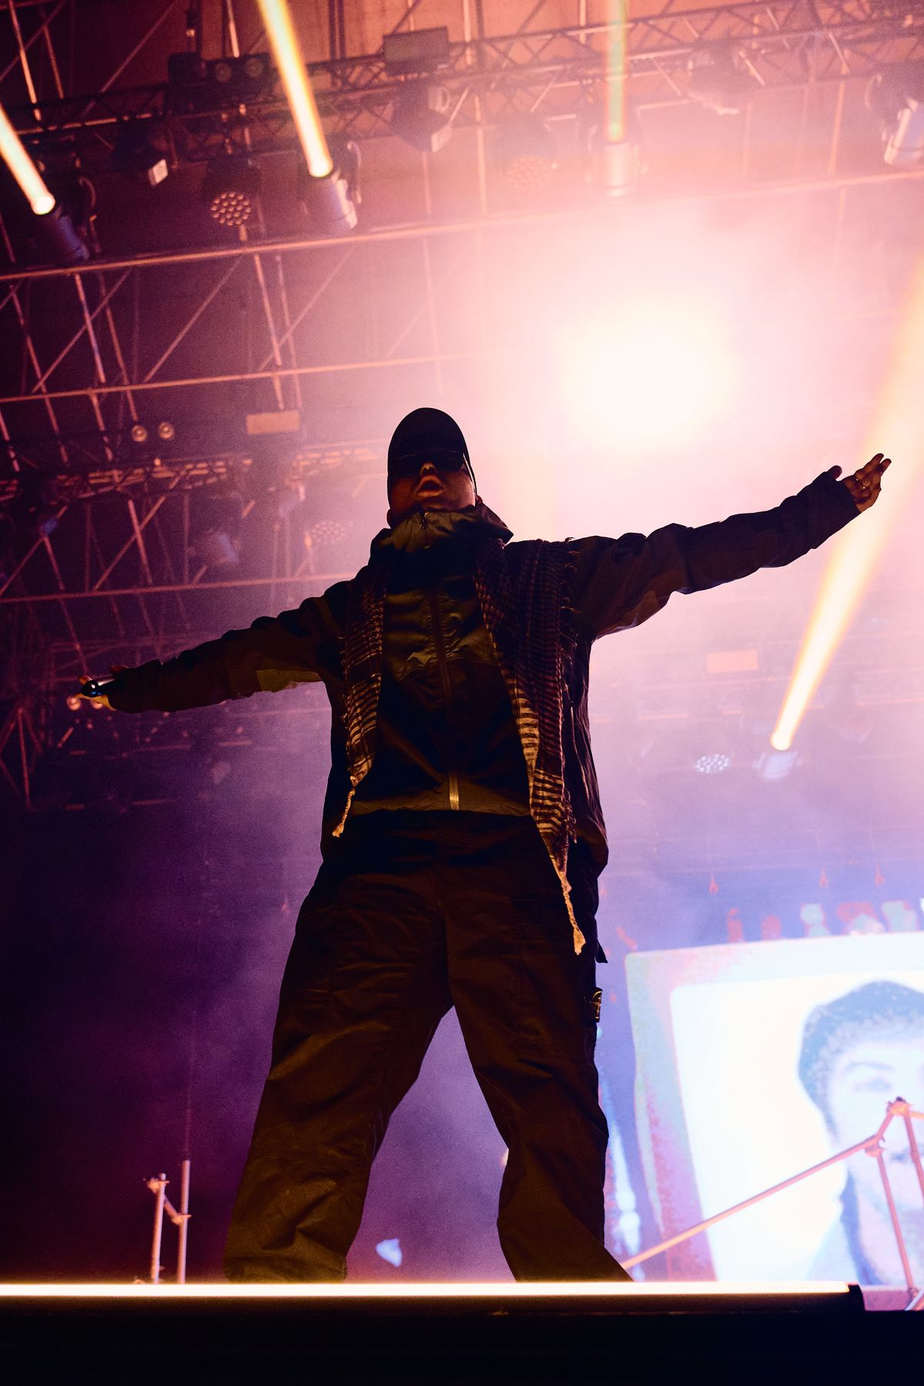
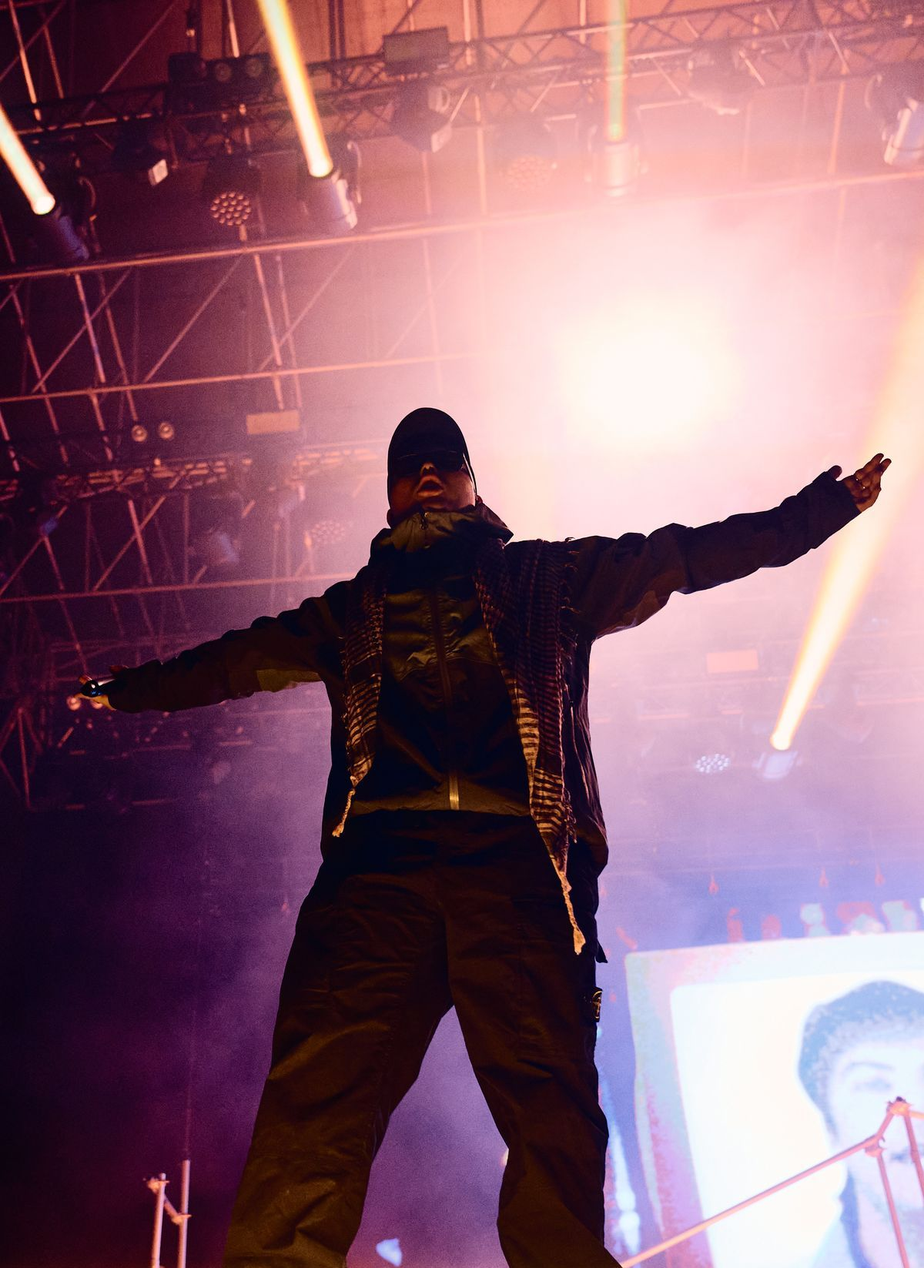
Kneecap: taglio bordo inferiore

diff --git a/index.html b/index.html
@@ -218,7 +218,7 @@ footer a:hover{color:var(--paper)}
 
 <script>
 const CONTACT={email:"matte.mog@gmail.com",phone:"+39 340 494 3680",instagram:"matteobarbieriph"};
-const S=[{"id": "elephant-brain", "t": "Elephant Brain", "p": "Locomotiv, Bologna · Harmonya Fest, Alchemica", "d": "2025 — 2026", "kind": "live", "im": [["elephant-brain-00", 1800, 1201], ["elephant-brain-01", 1800, 1201], ["elephant-brain-02", 1800, 1440], ["elephant-brain-03", 1800, 1440], ["elephant-brain-04", 1440, 960], ["elephant-brain-05", 1800, 1440], ["elephant-brain-06", 1800, 1200], ["elephant-brain-07", 1200, 1800], ["elephant-brain-08", 1800, 1200], ["elephant-brain-09", 1800, 1200]]}, {"id": "johnny-marr", "t": "Johnny Marr", "p": "Estragon, Bologna", "d": "08.11.2025", "kind": "live", "im": [["johnny-marr-00", 1080, 1350], ["johnny-marr-01", 1080, 1350], ["johnny-marr-02", 1080, 1350], ["johnny-marr-03", 1080, 1350], ["johnny-marr-04", 1080, 1350], ["johnny-marr-05", 1080, 864], ["johnny-marr-06", 1080, 1350]]}, {"id": "interpol", "t": "Interpol", "p": "Sequoie Music Park, Bologna", "d": "16.07.2026", "kind": "live", "im": [["interpol-00", 1800, 1200], ["interpol-01", 1200, 1800], ["interpol-02", 1800, 1200], ["interpol-03", 1800, 1200], ["interpol-04", 1800, 1200], ["interpol-05", 1800, 1200], ["interpol-06", 1800, 1200]]}, {"id": "a-perfect-circle", "t": "A Perfect Circle", "p": "Ferrara Summer Festival", "d": "13.06.2026", "kind": "live", "im": [["a-perfect-circle-00", 1800, 1200], ["a-perfect-circle-01", 1800, 1200], ["a-perfect-circle-02", 1200, 1800], ["a-perfect-circle-03", 1200, 1800], ["a-perfect-circle-04", 1800, 1200], ["a-perfect-circle-05", 1800, 1200], ["a-perfect-circle-06", 1800, 1200]]}, {"id": "pixies", "t": "Pixies", "p": "Parco della Musica, Milano", "d": "14.07.2026", "kind": "live", "im": [["pixies-00", 1800, 1200], ["pixies-01", 1200, 1800], ["pixies-02", 1800, 1200], ["pixies-03", 1800, 1200], ["pixies-04", 1200, 1800], ["pixies-05", 1800, 1200]]}, {"id": "the-zen-circus", "t": "The Zen Circus", "p": "Estragon, Bologna", "d": "12.12.2025", "kind": "live", "im": [["the-zen-circus-00", 1800, 1200], ["the-zen-circus-01", 1800, 1201], ["the-zen-circus-02", 1440, 1800], ["the-zen-circus-03", 1800, 1201], ["the-zen-circus-04", 1440, 1800], ["the-zen-circus-05", 1800, 1200], ["the-zen-circus-06", 1800, 1200]]}, {"id": "caparezza", "t": "Caparezza", "p": "Sequoie Music Park, Bologna", "d": "08.07.2026", "kind": "live", "im": [["caparezza-00", 1800, 1200], ["caparezza-01", 1200, 1800], ["caparezza-02", 1800, 1200], ["caparezza-03", 1800, 1200], ["caparezza-04", 1800, 1200], ["caparezza-05", 1800, 1200], ["caparezza-06", 1800, 1200]]}, {"id": "ministri", "t": "Ministri", "p": "Ferrara Sotto le Stelle", "d": "22.07.2026", "kind": "live", "im": [["ministri-00", 1800, 1200], ["ministri-01", 1800, 1200], ["ministri-02", 1200, 1800], ["ministri-03", 1800, 1200], ["ministri-04", 1800, 1200], ["ministri-05", 1800, 1200], ["ministri-06", 1800, 1200]]}, {"id": "bambole-di-pezza", "t": "Bambole di Pezza", "p": "Estragon, Bologna", "d": "06.05.2026", "kind": "live", "im": [["bambole-di-pezza-00", 1200, 1800], ["bambole-di-pezza-01", 1200, 1800], ["bambole-di-pezza-02", 1200, 1800], ["bambole-di-pezza-03", 1800, 1200], ["bambole-di-pezza-04", 1800, 1200], ["bambole-di-pezza-05", 1800, 1200]]}, {"id": "negrita", "t": "Negrita", "p": "Teatro EuropAuditorium, Bologna", "d": "04.12.2025", "kind": "live", "im": [["negrita-00", 1440, 1800], ["negrita-01", 1200, 1800], ["negrita-02", 1200, 1800], ["negrita-03", 1200, 1800], ["negrita-04", 1800, 1200], ["negrita-05", 1200, 1800]]}, {"id": "dropkick-murphys", "t": "Dropkick Murphys", "p": "Beky Bay, Bellaria-Igea Marina", "d": "12.08.2026", "kind": "live", "im": [["dropkick-murphys-00", 1800, 1200], ["dropkick-murphys-01", 1800, 1200], ["dropkick-murphys-02", 1200, 1800], ["dropkick-murphys-03", 1800, 1200], ["dropkick-murphys-04", 1800, 1200], ["dropkick-murphys-05", 1800, 1200], ["dropkick-murphys-06", 1200, 1800]]}, {"id": "joan-thiele", "t": "Joan Thiele", "p": "Frogstock, Riolo Terme", "d": "20.08.2026", "kind": "live", "im": [["joan-thiele-00", 1800, 1200], ["joan-thiele-01", 1200, 1800], ["joan-thiele-02", 1800, 1200], ["joan-thiele-03", 1200, 1800], ["joan-thiele-04", 1200, 1800], ["joan-thiele-05", 1800, 1200]]}, {"id": "marlene-kuntz", "t": "Marlene Kuntz", "p": "Estragon, Bologna · Ferrara Sotto le Stelle", "d": "marzo — luglio 2026", "kind": "live", "im": [["marlene-kuntz-00", 1800, 1200], ["marlene-kuntz-01", 1800, 1200], ["marlene-kuntz-02", 1200, 1800], ["marlene-kuntz-03", 1800, 1200], ["marlene-kuntz-04", 1200, 1800], ["marlene-kuntz-05", 1200, 1800], ["marlene-kuntz-06", 1200, 1800]]}, {"id": "motta", "t": "Motta", "p": "DumBO, Bologna", "d": "21.05.2026", "kind": "live", "im": [["motta-00", 1200, 1800], ["motta-01", 1200, 1800], ["motta-02", 1800, 1200], ["motta-03", 1800, 1200], ["motta-04", 1200, 1800], ["motta-05", 1200, 1800], ["motta-06", 1800, 1200]]}, {"id": "kneecap", "t": "Kneecap", "p": "Sequoie Music Park, Bologna", "d": "16.06.2026", "kind": "live", "im": [["kneecap-00", 1200, 1800], ["kneecap-01", 1800, 1200], ["kneecap-02", 1800, 1200], ["kneecap-03", 1800, 1200], ["kneecap-04", 1800, 1200]]}, {"id": "tom-smith", "t": "Tom Smith", "p": "Teatro Comunale, Ferrara", "d": "16.03.2026", "kind": "live", "im": [["tom-smith-00", 1800, 1200], ["tom-smith-01", 1800, 1200], ["tom-smith-02", 1800, 1200], ["tom-smith-03", 1800, 1200], ["tom-smith-04", 1800, 1200], ["tom-smith-05", 1800, 1200]]}, {"id": "mclusky", "t": "mclusky", "p": "Covo Club, Bologna", "d": "11.10.2025", "kind": "live", "im": [["mclusky-00", 1108, 1660], ["mclusky-01", 1107, 1660], ["mclusky-02", 1107, 1660], ["mclusky-03", 1660, 1107], ["mclusky-04", 1660, 1108], ["mclusky-05", 1660, 1107]]}, {"id": "subsonica", "t": "Subsonica", "p": "Caserme Rosse, Bologna · Festa Reggio", "d": "giugno — settembre 2026", "kind": "live", "im": [["subsonica-00", 1200, 1800], ["subsonica-01", 1800, 1200], ["subsonica-02", 1200, 1800], ["subsonica-03", 1200, 1800], ["subsonica-04", 1800, 1200], ["subsonica-05", 1800, 1200], ["subsonica-06", 1800, 1200]]}, {"id": "finley", "t": "Finley", "p": "Estragon, Bologna", "d": "15.03.2026", "kind": "live", "im": [["finley-00", 1200, 1800], ["finley-01", 1800, 1200], ["finley-02", 1800, 1200], ["finley-03", 1800, 1200], ["finley-04", 1800, 1200], ["finley-05", 1800, 1200], ["finley-06", 1200, 1800]]}, {"id": "giorgio-poi", "t": "Giorgio Poi", "p": "Estragon, Bologna", "d": "12.03.2026", "kind": "live", "im": [["giorgio-poi-00", 1800, 1440], ["giorgio-poi-01", 1800, 1440], ["giorgio-poi-02", 1800, 1440], ["giorgio-poi-03", 1800, 1440], ["giorgio-poi-04", 1800, 1200], ["giorgio-poi-05", 1800, 1440]]}, {"id": "levante", "t": "Levante", "p": "", "d": "14.05.2026", "kind": "live", "im": [["levante-00", 1800, 1200], ["levante-01", 1800, 1200], ["levante-02", 1800, 1200], ["levante-03", 1200, 1800], ["levante-04", 1200, 1800], ["levante-05", 1800, 1200], ["levante-06", 1800, 1200]]}, {"id": "jehnny-beth", "t": "Jehnny Beth", "p": "Ferrara Summer Festival", "d": "13.06.2026", "kind": "live", "im": [["jehnny-beth-00", 1800, 1200], ["jehnny-beth-01", 1800, 1200], ["jehnny-beth-02", 1200, 1800], ["jehnny-beth-03", 1800, 1200], ["jehnny-beth-04", 1800, 1200], ["jehnny-beth-05", 1800, 1200]]}, {"id": "of-monsters-and-men", "t": "Of Monsters and Men", "p": "Sequoie Music Park, Bologna", "d": "25.06.2026", "kind": "live", "im": [["of-monsters-and-men-00", 1800, 1200], ["of-monsters-and-men-01", 1200, 1800], ["of-monsters-and-men-02", 1200, 1800], ["of-monsters-and-men-03", 1800, 1200], ["of-monsters-and-men-04", 1200, 1800]]}, {"id": "vulfpeck", "t": "Vulfpeck · The Fearless Flyers", "p": "Parco della Musica, Milano", "d": "13.07.2026", "kind": "live", "im": [["vulfpeck-00", 1200, 1800], ["vulfpeck-01", 1200, 1800], ["vulfpeck-02", 1800, 1200], ["vulfpeck-03", 1800, 1200], ["vulfpeck-04", 1800, 1200], ["vulfpeck-05", 1800, 1200]]}, {"id": "the-notwist", "t": "The Notwist", "p": "Ferrara Sotto le Stelle", "d": "23.07.2026", "kind": "live", "im": [["the-notwist-00", 1800, 1200], ["the-notwist-01", 1800, 1200], ["the-notwist-02", 1800, 1200], ["the-notwist-03", 1800, 1200], ["the-notwist-04", 1800, 1200], ["the-notwist-05", 1800, 1200]]}, {"id": "pride-of-haka", "t": "Pride of Haka", "p": "Set del videoclip", "d": "02.2026", "kind": "ritratti", "im": [["pride-of-haka-00", 1440, 1800], ["pride-of-haka-01", 1800, 1200], ["pride-of-haka-02", 1440, 1800], ["pride-of-haka-03", 1800, 1200], ["pride-of-haka-04", 1800, 1200], ["pride-of-haka-05", 1800, 1200], ["pride-of-haka-06", 1200, 1800], ["pride-of-haka-07", 1800, 1200]]}, {"id": "olivia-santimone", "t": "Olivia Santimone", "p": "Sessione promo in studio", "d": "2026", "kind": "ritratti", "im": [["olivia-santimone-00", 1800, 1440], ["olivia-santimone-01", 1800, 1440], ["olivia-santimone-02", 1800, 1201], ["olivia-santimone-03", 1800, 1440], ["olivia-santimone-04", 1800, 1440], ["olivia-santimone-05", 1800, 1175], ["olivia-santimone-06", 1800, 1201]]}, {"id": "incisions", "t": "Incisions", "p": "Foto promo", "d": "2026", "kind": "ritratti", "im": [["incisions-00", 1800, 1200], ["incisions-01", 1800, 1200], ["incisions-02", 1200, 1800], ["incisions-03", 1800, 1200], ["incisions-04", 1200, 1800]]}, {"id": "kylie-davide-dalila", "t": "Kylie, Davide e Dalila", "p": "Ritratto di famiglia", "d": "10.2025", "kind": "privati", "im": [["kylie-davide-dalila-00", 1800, 1201], ["kylie-davide-dalila-01", 1800, 1201], ["kylie-davide-dalila-02", 1800, 1201], ["kylie-davide-dalila-03", 1800, 1201], ["kylie-davide-dalila-04", 1800, 1201], ["kylie-davide-dalila-05", 1800, 1201], ["kylie-davide-dalila-06", 1800, 1201]]}, {"id": "studio-olistico-kairos", "t": "Studio Olistico Kairos", "p": "Servizio brand · Rioveggio (BO)", "d": "09.2025", "kind": "brand", "im": [["studio-olistico-kairos-00", 1800, 1201], ["studio-olistico-kairos-01", 1800, 1201], ["studio-olistico-kairos-02", 1800, 1201], ["studio-olistico-kairos-03", 1800, 1440], ["studio-olistico-kairos-04", 1800, 1440], ["studio-olistico-kairos-05", 1800, 1440], ["studio-olistico-kairos-06", 1800, 1440], ["studio-olistico-kairos-07", 1800, 1201], ["studio-olistico-kairos-08", 1800, 1201]]}, {"id": "my-style-by-vero", "t": "My Style by Vero", "p": "Artigianato dipinto a mano · mercatino", "d": "06.2025", "kind": "brand", "im": [["my-style-by-vero-00", 1800, 1201], ["my-style-by-vero-01", 1800, 1201], ["my-style-by-vero-02", 1800, 1201], ["my-style-by-vero-03", 1800, 1201]]}, {"id": "primavera-fresh-gin", "t": "Primavera Fresh Gin", "p": "Still life di prodotto", "d": "11.2025", "kind": "brand", "im": [["primavera-fresh-gin-00", 1152, 1440], ["primavera-fresh-gin-01", 1440, 960], ["primavera-fresh-gin-02", 1440, 960], ["primavera-fresh-gin-03", 960, 1440]]}, {"id": "accademia-italiana-bari", "t": "Accademia Italiana · Roadshow", "p": "Confindustria, Bari · Gruppo Finlogic", "d": "01.10.2026", "kind": "eventi", "im": [["accademia-italiana-bari-00", 1800, 1200], ["accademia-italiana-bari-01", 1800, 1200], ["accademia-italiana-bari-02", 1800, 1200], ["accademia-italiana-bari-03", 1800, 1200], ["accademia-italiana-bari-04", 1800, 1200]]}, {"id": "battesimo", "t": "Battesimo di Leonardo", "p": "Reportage di famiglia", "d": "2026", "kind": "privati", "im": [["battesimo-00", 1800, 1200], ["battesimo-01", 1200, 1800], ["battesimo-02", 1200, 1800], ["battesimo-03", 1800, 1200], ["battesimo-04", 1800, 1200], ["battesimo-05", 1800, 1200]]}, {"id": "sherwood-skate-park", "t": "Sherwood Skate Park", "p": "Inaugurazione", "d": "07.2026", "kind": "eventi", "im": [["sherwood-skate-park-00", 1200, 1800], ["sherwood-skate-park-01", 1800, 1200], ["sherwood-skate-park-02", 1200, 1800], ["sherwood-skate-park-03", 1800, 1200], ["sherwood-skate-park-04", 1800, 1200], ["sherwood-skate-park-05", 1200, 1800], ["sherwood-skate-park-06", 1800, 1200]]}, {"id": "street-buskers", "t": "Ferrara Buskers Festival", "p": "Street · Ferrara", "d": "2026", "kind": "reportage", "im": [["street-buskers-00", 1200, 1800], ["street-buskers-01", 1200, 1800], ["street-buskers-02", 1200, 1800], ["street-buskers-03", 1800, 1200], ["street-buskers-04", 1200, 1800], ["street-buskers-05", 1800, 1200], ["street-buskers-06", 1800, 1200], ["street-buskers-07", 1800, 1200]]}, {"id": "reportage", "t": "Reportage", "p": "Palio di Ferrara · Workshop Leila Bologna", "d": "2025", "kind": "reportage", "im": [["corteo-storico-00", 1200, 1800], ["corteo-storico-01", 1200, 1800], ["corteo-storico-02", 1200, 1800], ["corteo-storico-03", 1200, 1800], ["corteo-storico-04", 1200, 1800], ["corteo-storico-05", 1200, 1800], ["corteo-storico-06", 1800, 1200], ["sharing-before-christmas-00", 1800, 1440]]}, {"id": "viaggi", "t": "Viaggi", "p": "Stoccolma · Finlandia", "d": "2025 — 2026", "kind": "viaggi", "im": [["stoccolma-00", 1800, 1200], ["stoccolma-01", 1800, 1200], ["stoccolma-02", 1800, 1200], ["stoccolma-03", 1800, 1200], ["stoccolma-04", 1200, 1800], ["stoccolma-05", 1800, 1200], ["stoccolma-06", 1800, 1200], ["finlandia-00", 1800, 1201], ["finlandia-01", 1800, 1440], ["finlandia-02", 1800, 1201], ["finlandia-03", 1800, 1440], ["finlandia-04", 1800, 1201], ["finlandia-05", 1800, 1201], ["finlandia-06", 1800, 1201]]}];
+const S=[{"id": "elephant-brain", "t": "Elephant Brain", "p": "Locomotiv, Bologna · Harmonya Fest, Alchemica", "d": "2025 — 2026", "kind": "live", "im": [["elephant-brain-00", 1800, 1201], ["elephant-brain-01", 1800, 1201], ["elephant-brain-02", 1800, 1440], ["elephant-brain-03", 1800, 1440], ["elephant-brain-04", 1440, 960], ["elephant-brain-05", 1800, 1440], ["elephant-brain-06", 1800, 1200], ["elephant-brain-07", 1200, 1800], ["elephant-brain-08", 1800, 1200], ["elephant-brain-09", 1800, 1200]]}, {"id": "johnny-marr", "t": "Johnny Marr", "p": "Estragon, Bologna", "d": "08.11.2025", "kind": "live", "im": [["johnny-marr-00", 1080, 1350], ["johnny-marr-01", 1080, 1350], ["johnny-marr-02", 1080, 1350], ["johnny-marr-03", 1080, 1350], ["johnny-marr-04", 1080, 1350], ["johnny-marr-05", 1080, 864], ["johnny-marr-06", 1080, 1350]]}, {"id": "interpol", "t": "Interpol", "p": "Sequoie Music Park, Bologna", "d": "16.07.2026", "kind": "live", "im": [["interpol-00", 1800, 1200], ["interpol-01", 1200, 1800], ["interpol-02", 1800, 1200], ["interpol-03", 1800, 1200], ["interpol-04", 1800, 1200], ["interpol-05", 1800, 1200], ["interpol-06", 1800, 1200]]}, {"id": "a-perfect-circle", "t": "A Perfect Circle", "p": "Ferrara Summer Festival", "d": "13.06.2026", "kind": "live", "im": [["a-perfect-circle-00", 1800, 1200], ["a-perfect-circle-01", 1800, 1200], ["a-perfect-circle-02", 1200, 1800], ["a-perfect-circle-03", 1200, 1800], ["a-perfect-circle-04", 1800, 1200], ["a-perfect-circle-05", 1800, 1200], ["a-perfect-circle-06", 1800, 1200]]}, {"id": "pixies", "t": "Pixies", "p": "Parco della Musica, Milano", "d": "14.07.2026", "kind": "live", "im": [["pixies-00", 1800, 1200], ["pixies-01", 1200, 1800], ["pixies-02", 1800, 1200], ["pixies-03", 1800, 1200], ["pixies-04", 1200, 1800], ["pixies-05", 1800, 1200]]}, {"id": "the-zen-circus", "t": "The Zen Circus", "p": "Estragon, Bologna", "d": "12.12.2025", "kind": "live", "im": [["the-zen-circus-00", 1800, 1200], ["the-zen-circus-01", 1800, 1201], ["the-zen-circus-02", 1440, 1800], ["the-zen-circus-03", 1800, 1201], ["the-zen-circus-04", 1440, 1800], ["the-zen-circus-05", 1800, 1200], ["the-zen-circus-06", 1800, 1200]]}, {"id": "caparezza", "t": "Caparezza", "p": "Sequoie Music Park, Bologna", "d": "08.07.2026", "kind": "live", "im": [["caparezza-00", 1800, 1200], ["caparezza-01", 1200, 1800], ["caparezza-02", 1800, 1200], ["caparezza-03", 1800, 1200], ["caparezza-04", 1800, 1200], ["caparezza-05", 1800, 1200], ["caparezza-06", 1800, 1200]]}, {"id": "ministri", "t": "Ministri", "p": "Ferrara Sotto le Stelle", "d": "22.07.2026", "kind": "live", "im": [["ministri-00", 1800, 1200], ["ministri-01", 1800, 1200], ["ministri-02", 1200, 1800], ["ministri-03", 1800, 1200], ["ministri-04", 1800, 1200], ["ministri-05", 1800, 1200], ["ministri-06", 1800, 1200]]}, {"id": "bambole-di-pezza", "t": "Bambole di Pezza", "p": "Estragon, Bologna", "d": "06.05.2026", "kind": "live", "im": [["bambole-di-pezza-00", 1200, 1800], ["bambole-di-pezza-01", 1200, 1800], ["bambole-di-pezza-02", 1200, 1800], ["bambole-di-pezza-03", 1800, 1200], ["bambole-di-pezza-04", 1800, 1200], ["bambole-di-pezza-05", 1800, 1200]]}, {"id": "negrita", "t": "Negrita", "p": "Teatro EuropAuditorium, Bologna", "d": "04.12.2025", "kind": "live", "im": [["negrita-00", 1440, 1800], ["negrita-01", 1200, 1800], ["negrita-02", 1200, 1800], ["negrita-03", 1200, 1800], ["negrita-04", 1800, 1200], ["negrita-05", 1200, 1800]]}, {"id": "dropkick-murphys", "t": "Dropkick Murphys", "p": "Beky Bay, Bellaria-Igea Marina", "d": "12.08.2026", "kind": "live", "im": [["dropkick-murphys-00", 1800, 1200], ["dropkick-murphys-01", 1800, 1200], ["dropkick-murphys-02", 1200, 1800], ["dropkick-murphys-03", 1800, 1200], ["dropkick-murphys-04", 1800, 1200], ["dropkick-murphys-05", 1800, 1200], ["dropkick-murphys-06", 1200, 1800]]}, {"id": "joan-thiele", "t": "Joan Thiele", "p": "Frogstock, Riolo Terme", "d": "20.08.2026", "kind": "live", "im": [["joan-thiele-00", 1800, 1200], ["joan-thiele-01", 1200, 1800], ["joan-thiele-02", 1800, 1200], ["joan-thiele-03", 1200, 1800], ["joan-thiele-04", 1200, 1800], ["joan-thiele-05", 1800, 1200]]}, {"id": "marlene-kuntz", "t": "Marlene Kuntz", "p": "Estragon, Bologna · Ferrara Sotto le Stelle", "d": "marzo — luglio 2026", "kind": "live", "im": [["marlene-kuntz-00", 1800, 1200], ["marlene-kuntz-01", 1800, 1200], ["marlene-kuntz-02", 1200, 1800], ["marlene-kuntz-03", 1800, 1200], ["marlene-kuntz-04", 1200, 1800], ["marlene-kuntz-05", 1200, 1800], ["marlene-kuntz-06", 1200, 1800]]}, {"id": "motta", "t": "Motta", "p": "DumBO, Bologna", "d": "21.05.2026", "kind": "live", "im": [["motta-00", 1200, 1800], ["motta-01", 1200, 1800], ["motta-02", 1800, 1200], ["motta-03", 1800, 1200], ["motta-04", 1200, 1800], ["motta-05", 1200, 1800], ["motta-06", 1800, 1200]]}, {"id": "kneecap", "t": "Kneecap", "p": "Sequoie Music Park, Bologna", "d": "16.06.2026", "kind": "live", "im": [["kneecap-00", 1200, 1647], ["kneecap-01", 1800, 1200], ["kneecap-02", 1800, 1200], ["kneecap-03", 1800, 1200], ["kneecap-04", 1800, 1200]]}, {"id": "tom-smith", "t": "Tom Smith", "p": "Teatro Comunale, Ferrara", "d": "16.03.2026", "kind": "live", "im": [["tom-smith-00", 1800, 1200], ["tom-smith-01", 1800, 1200], ["tom-smith-02", 1800, 1200], ["tom-smith-03", 1800, 1200], ["tom-smith-04", 1800, 1200], ["tom-smith-05", 1800, 1200]]}, {"id": "mclusky", "t": "mclusky", "p": "Covo Club, Bologna", "d": "11.10.2025", "kind": "live", "im": [["mclusky-00", 1108, 1660], ["mclusky-01", 1107, 1660], ["mclusky-02", 1107, 1660], ["mclusky-03", 1660, 1107], ["mclusky-04", 1660, 1108], ["mclusky-05", 1660, 1107]]}, {"id": "subsonica", "t": "Subsonica", "p": "Caserme Rosse, Bologna · Festa Reggio", "d": "giugno — settembre 2026", "kind": "live", "im": [["subsonica-00", 1200, 1800], ["subsonica-01", 1800, 1200], ["subsonica-02", 1200, 1800], ["subsonica-03", 1200, 1800], ["subsonica-04", 1800, 1200], ["subsonica-05", 1800, 1200], ["subsonica-06", 1800, 1200]]}, {"id": "finley", "t": "Finley", "p": "Estragon, Bologna", "d": "15.03.2026", "kind": "live", "im": [["finley-00", 1200, 1800], ["finley-01", 1800, 1200], ["finley-02", 1800, 1200], ["finley-03", 1800, 1200], ["finley-04", 1800, 1200], ["finley-05", 1800, 1200], ["finley-06", 1200, 1800]]}, {"id": "giorgio-poi", "t": "Giorgio Poi", "p": "Estragon, Bologna", "d": "12.03.2026", "kind": "live", "im": [["giorgio-poi-00", 1800, 1440], ["giorgio-poi-01", 1800, 1440], ["giorgio-poi-02", 1800, 1440], ["giorgio-poi-03", 1800, 1440], ["giorgio-poi-04", 1800, 1200], ["giorgio-poi-05", 1800, 1440]]}, {"id": "levante", "t": "Levante", "p": "", "d": "14.05.2026", "kind": "live", "im": [["levante-00", 1800, 1200], ["levante-01", 1800, 1200], ["levante-02", 1800, 1200], ["levante-03", 1200, 1800], ["levante-04", 1200, 1800], ["levante-05", 1800, 1200], ["levante-06", 1800, 1200]]}, {"id": "jehnny-beth", "t": "Jehnny Beth", "p": "Ferrara Summer Festival", "d": "13.06.2026", "kind": "live", "im": [["jehnny-beth-00", 1800, 1200], ["jehnny-beth-01", 1800, 1200], ["jehnny-beth-02", 1200, 1800], ["jehnny-beth-03", 1800, 1200], ["jehnny-beth-04", 1800, 1200], ["jehnny-beth-05", 1800, 1200]]}, {"id": "of-monsters-and-men", "t": "Of Monsters and Men", "p": "Sequoie Music Park, Bologna", "d": "25.06.2026", "kind": "live", "im": [["of-monsters-and-men-00", 1800, 1200], ["of-monsters-and-men-01", 1200, 1800], ["of-monsters-and-men-02", 1200, 1800], ["of-monsters-and-men-03", 1800, 1200], ["of-monsters-and-men-04", 1200, 1800]]}, {"id": "vulfpeck", "t": "Vulfpeck · The Fearless Flyers", "p": "Parco della Musica, Milano", "d": "13.07.2026", "kind": "live", "im": [["vulfpeck-00", 1200, 1800], ["vulfpeck-01", 1200, 1800], ["vulfpeck-02", 1800, 1200], ["vulfpeck-03", 1800, 1200], ["vulfpeck-04", 1800, 1200], ["vulfpeck-05", 1800, 1200]]}, {"id": "the-notwist", "t": "The Notwist", "p": "Ferrara Sotto le Stelle", "d": "23.07.2026", "kind": "live", "im": [["the-notwist-00", 1800, 1200], ["the-notwist-01", 1800, 1200], ["the-notwist-02", 1800, 1200], ["the-notwist-03", 1800, 1200], ["the-notwist-04", 1800, 1200], ["the-notwist-05", 1800, 1200]]}, {"id": "pride-of-haka", "t": "Pride of Haka", "p": "Set del videoclip", "d": "02.2026", "kind": "ritratti", "im": [["pride-of-haka-00", 1440, 1800], ["pride-of-haka-01", 1800, 1200], ["pride-of-haka-02", 1440, 1800], ["pride-of-haka-03", 1800, 1200], ["pride-of-haka-04", 1800, 1200], ["pride-of-haka-05", 1800, 1200], ["pride-of-haka-06", 1200, 1800], ["pride-of-haka-07", 1800, 1200]]}, {"id": "olivia-santimone", "t": "Olivia Santimone", "p": "Sessione promo in studio", "d": "2026", "kind": "ritratti", "im": [["olivia-santimone-00", 1800, 1440], ["olivia-santimone-01", 1800, 1440], ["olivia-santimone-02", 1800, 1201], ["olivia-santimone-03", 1800, 1440], ["olivia-santimone-04", 1800, 1440], ["olivia-santimone-05", 1800, 1175], ["olivia-santimone-06", 1800, 1201]]}, {"id": "incisions", "t": "Incisions", "p": "Foto promo", "d": "2026", "kind": "ritratti", "im": [["incisions-00", 1800, 1200], ["incisions-01", 1800, 1200], ["incisions-02", 1200, 1800], ["incisions-03", 1800, 1200], ["incisions-04", 1200, 1800]]}, {"id": "kylie-davide-dalila", "t": "Kylie, Davide e Dalila", "p": "Ritratto di famiglia", "d": "10.2025", "kind": "privati", "im": [["kylie-davide-dalila-00", 1800, 1201], ["kylie-davide-dalila-01", 1800, 1201], ["kylie-davide-dalila-02", 1800, 1201], ["kylie-davide-dalila-03", 1800, 1201], ["kylie-davide-dalila-04", 1800, 1201], ["kylie-davide-dalila-05", 1800, 1201], ["kylie-davide-dalila-06", 1800, 1201]]}, {"id": "studio-olistico-kairos", "t": "Studio Olistico Kairos", "p": "Servizio brand · Rioveggio (BO)", "d": "09.2025", "kind": "brand", "im": [["studio-olistico-kairos-00", 1800, 1201], ["studio-olistico-kairos-01", 1800, 1201], ["studio-olistico-kairos-02", 1800, 1201], ["studio-olistico-kairos-03", 1800, 1440], ["studio-olistico-kairos-04", 1800, 1440], ["studio-olistico-kairos-05", 1800, 1440], ["studio-olistico-kairos-06", 1800, 1440], ["studio-olistico-kairos-07", 1800, 1201], ["studio-olistico-kairos-08", 1800, 1201]]}, {"id": "my-style-by-vero", "t": "My Style by Vero", "p": "Artigianato dipinto a mano · mercatino", "d": "06.2025", "kind": "brand", "im": [["my-style-by-vero-00", 1800, 1201], ["my-style-by-vero-01", 1800, 1201], ["my-style-by-vero-02", 1800, 1201], ["my-style-by-vero-03", 1800, 1201]]}, {"id": "primavera-fresh-gin", "t": "Primavera Fresh Gin", "p": "Still life di prodotto", "d": "11.2025", "kind": "brand", "im": [["primavera-fresh-gin-00", 1152, 1440], ["primavera-fresh-gin-01", 1440, 960], ["primavera-fresh-gin-02", 1440, 960], ["primavera-fresh-gin-03", 960, 1440]]}, {"id": "accademia-italiana-bari", "t": "Accademia Italiana · Roadshow", "p": "Confindustria, Bari · Gruppo Finlogic", "d": "01.10.2026", "kind": "eventi", "im": [["accademia-italiana-bari-00", 1800, 1200], ["accademia-italiana-bari-01", 1800, 1200], ["accademia-italiana-bari-02", 1800, 1200], ["accademia-italiana-bari-03", 1800, 1200], ["accademia-italiana-bari-04", 1800, 1200]]}, {"id": "battesimo", "t": "Battesimo di Leonardo", "p": "Reportage di famiglia", "d": "2026", "kind": "privati", "im": [["battesimo-00", 1800, 1200], ["battesimo-01", 1200, 1800], ["battesimo-02", 1200, 1800], ["battesimo-03", 1800, 1200], ["battesimo-04", 1800, 1200], ["battesimo-05", 1800, 1200]]}, {"id": "sherwood-skate-park", "t": "Sherwood Skate Park", "p": "Inaugurazione", "d": "07.2026", "kind": "eventi", "im": [["sherwood-skate-park-00", 1200, 1800], ["sherwood-skate-park-01", 1800, 1200], ["sherwood-skate-park-02", 1200, 1800], ["sherwood-skate-park-03", 1800, 1200], ["sherwood-skate-park-04", 1800, 1200], ["sherwood-skate-park-05", 1200, 1800], ["sherwood-skate-park-06", 1800, 1200]]}, {"id": "street-buskers", "t": "Ferrara Buskers Festival", "p": "Street · Ferrara", "d": "2026", "kind": "reportage", "im": [["street-buskers-00", 1200, 1800], ["street-buskers-01", 1200, 1800], ["street-buskers-02", 1200, 1800], ["street-buskers-03", 1800, 1200], ["street-buskers-04", 1200, 1800], ["street-buskers-05", 1800, 1200], ["street-buskers-06", 1800, 1200], ["street-buskers-07", 1800, 1200]]}, {"id": "reportage", "t": "Reportage", "p": "Palio di Ferrara · Workshop Leila Bologna", "d": "2025", "kind": "reportage", "im": [["corteo-storico-00", 1200, 1800], ["corteo-storico-01", 1200, 1800], ["corteo-storico-02", 1200, 1800], ["corteo-storico-03", 1200, 1800], ["corteo-storico-04", 1200, 1800], ["corteo-storico-05", 1200, 1800], ["corteo-storico-06", 1800, 1200], ["sharing-before-christmas-00", 1800, 1440]]}, {"id": "viaggi", "t": "Viaggi", "p": "Stoccolma · Finlandia", "d": "2025 — 2026", "kind": "viaggi", "im": [["stoccolma-00", 1800, 1200], ["stoccolma-01", 1800, 1200], ["stoccolma-02", 1800, 1200], ["stoccolma-03", 1800, 1200], ["stoccolma-04", 1200, 1800], ["stoccolma-05", 1800, 1200], ["stoccolma-06", 1800, 1200], ["finlandia-00", 1800, 1201], ["finlandia-01", 1800, 1440], ["finlandia-02", 1800, 1201], ["finlandia-03", 1800, 1440], ["finlandia-04", 1800, 1201], ["finlandia-05", 1800, 1201], ["finlandia-06", 1800, 1201]]}];
 const app=document.getElementById("app");
 const el=(t,a={},...k)=>{const e=document.createElement(t);for(const[x,y]of Object.entries(a)){if(x==="class")e.className=y;else if(x.startsWith("on"))e.addEventListener(x.slice(2),y);else e.setAttribute(x,y)}k.forEach(c=>c!=null&&e.append(c));return e};
 const pad=n=>String(n).padStart(2,"0");
